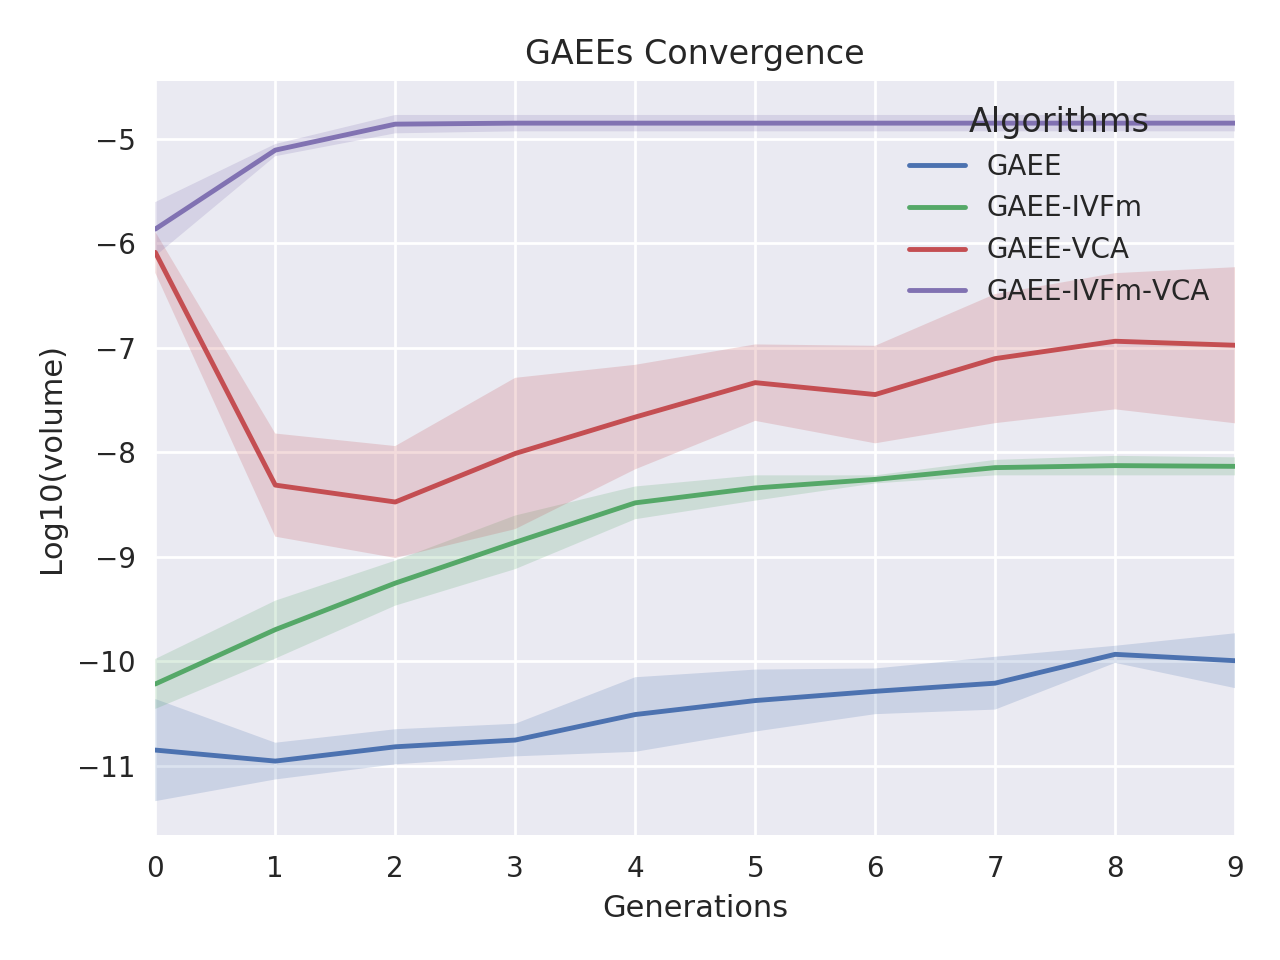
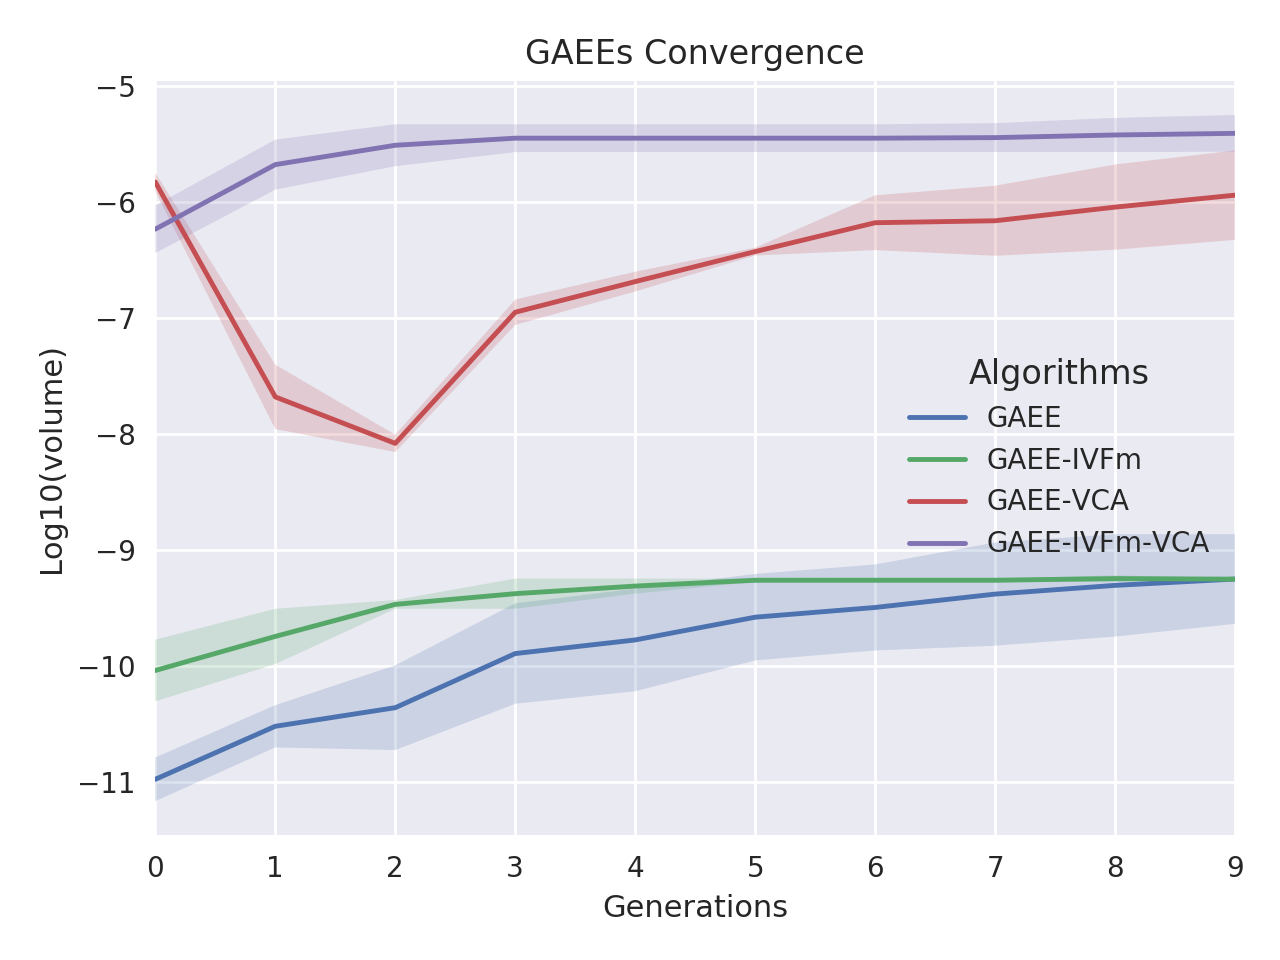
running time

diff --git a/DEMO.py b/DEMO.py
@@ -8,6 +8,7 @@ import pandas as pd
 from tabulate import tabulate
 import seaborn as sns; sns.set(color_codes=True)
 from scipy import stats
+from timeit import default_timer as timer
 
 class DEMO(object):
 
@@ -64,6 +65,8 @@ class DEMO(object):
 
 	sam_all_runs_value = None
 	sid_all_runs_value = None
+
+	time_runs = []
 
 	verbose = True
 
@@ -316,7 +319,11 @@ class DEMO(object):
 		self.sid_all_runs_value = np.zeros((mrun,self.p))
 
 		for i in range(mrun):
+			start = timer()
 			self.extract_endmember()
+			end = timer()
+			self.time_runs.append(end-start)
+			# self.extract_endmember()
 			[sam_idx, sam_value] = self.best_sam_match()
 			[sid_idx, sid_value] = self.best_sid_match()
 			
@@ -479,7 +486,7 @@ def run():
 	file.write('![alt text](Convergence.png)\n\n')
 
 	endmember_names = ['Alunite','Andradite','Buddingtonite','Dumortierite','Kaolinite_1','Kaolinite_2','Muscovite',
-				'Montmonrillonite','Nontronite','Pyrope','Sphene','Chalcedony','**Mean**','**Std**','**p-value**']
+				'Montmonrillonite','Nontronite','Pyrope','Sphene','Chalcedony','**Mean**','**Std**','**P-value**','**Time**']
 
 	ppi = DEMO([data_loc,gt_loc,num_endm,'PPI',nSkewers,initSkewers],verbose)
 	ppi.best_run(mrun)
@@ -499,8 +506,9 @@ def run():
 	tab2_sid.set_index('Endmembers',inplace=True)
 
 	for l in algo:
+		print(l.time_runs)
 		p = stats.ttest_ind(np.mean(vca.sam_all_runs_value,axis=1),np.mean(l.sam_all_runs_value,axis=1))
-		tab1_sam[l.name] = np.append(l.sam_values_min, [np.mean(l.sam_mean), np.mean(l.sam_std), p[0]])
+		tab1_sam[l.name] = np.append(l.sam_values_min, [np.mean(l.sam_mean), np.mean(l.sam_std), p[0], np.mean(l.time_runs)])
 		# s = np.sqrt((np.mean(vca.sid_var) + np.mean(l.sid_var))/2)
 		# t = (np.mean(vca.sid_mean) - np.mean(l.sid_mean)/(s*np.sqrt(2/mrun)))
 		# af = 2*mrun-2
@@ -508,7 +516,7 @@ def run():
 		# if (l.name == 'VCA'):
 		# 	p=0
 		p = stats.ttest_ind(np.mean(vca.sid_all_runs_value,axis=1),np.mean(l.sid_all_runs_value,axis=1))
-		tab2_sid[l.name] = np.append(l.sid_values_min, [np.mean(l.sid_mean), np.mean(l.sid_std), p[0]])
+		tab2_sid[l.name] = np.append(l.sid_values_min, [np.mean(l.sid_mean), np.mean(l.sid_std), p[0], np.mean(l.time_runs)])
 
 	file.write('### Comparison between the ground-truth Laboratory Reflectances and extracted endmembers using PPI, N-FINDR, VCA, GAEE, GAEE-IVFm using SAM for the Cuprite Dataset.\n\n')
 	table_fancy = tabulate(tab1_sam, tablefmt="pipe", floatfmt=".7f", headers="keys")
@@ -525,7 +533,7 @@ def run():
 		line = table_fancy.split('\n')[2:][idx]
 		table_fancy = table_fancy.replace(line, line.replace(' '+mi+' ', ' **'+mi+'** '))
 	file.write(table_fancy+'\n\n')
-	
+
 	# gaee = DEMO([data_loc,gt_loc,num_endm,'GAEE',10,10,0.7,0.3,None,False],verbose)
 	# gaee.best_run(mrun)
 	

diff --git a/README.md b/README.md
@@ -27,41 +27,43 @@ Maximum number of iterations (N-FINDR): 5
 
 ### Comparison between the ground-truth Laboratory Reflectances and extracted endmembers using PPI, N-FINDR, VCA, GAEE, GAEE-IVFm using SAM for the Cuprite Dataset.
 
-| Endmembers       |        PPI |     NFINDR |       VCA |       GAEE |   GAEE-IVFm |   GAEE-VCA |   GAEE-IVFm-VCA |
-|:-----------------|-----------:|-----------:|----------:|-----------:|------------:|-----------:|----------------:|
-| Alunite          |  0.3743766 |  0.1033697 | **0.1016300** |  0.3414486 |   0.1024535 |  0.1033697 |       0.1033697 |
-| Andradite        |  0.0757956 |  0.0724709 | 0.0908270 |  0.0678708 |   0.0676371 |  0.0823914 |       **0.0592546** |
-| Buddingtonite    |  0.2080900 |  0.0761604 | 0.0785924 |  0.1264569 |   0.1125306 |  **0.0761598** |       **0.0761598** |
-| Dumortierite     |  0.1907338 |  **0.0720035** | 0.0951321 |  0.0777131 |   0.1512911 |  0.0720841 |       0.1052671 |
-| Kaolinite_1      |  0.0794624 |  0.0870056 | 0.0862021 |  0.0922255 |   **0.0786868** |  0.0825444 |       0.0870058 |
-| Kaolinite_2      |  0.0819634 |  0.0889228 | 0.0755032 |  **0.0587641** |   0.0627594 |  0.0763893 |       0.0953920 |
-| Muscovite        |  0.2506333 |  0.1091060 | 0.1084029 |  0.1605602 |   0.2121529 |  0.1359533 |       **0.0960974** |
-| Montmonrillonite |  0.1338156 |  0.0648080 | 0.0642589 |  0.0605655 |   **0.0590018** |  0.0657460 |       0.0657460 |
-| Nontronite       |  0.1032919 |  0.0758386 | 0.1121975 |  0.0797934 |   **0.0735572** |  0.0762960 |       0.1150333 |
-| Pyrope           |  0.0578827 |  0.1221578 | 0.1471749 |  **0.0461283** |   0.0644277 |  0.1941656 |       0.0964739 |
-| Sphene           |  0.0673108 |  0.2856719 | 0.0834347 |  0.0741759 |   0.1528000 |  0.0770255 |       **0.0613746** |
-| Chalcedony       |  0.0871248 |  0.0871248 | **0.0760768** |  0.2199309 |   0.1653366 |  0.0934307 |       0.0919706 |
-| **Mean**         |  0.1425401 |  0.1057002 | 0.1005772 |  0.1210254 |   0.1096163 |  0.1054497 |       **0.0939173** |
-| **Std**          |  **0.0000000** |  0.0053322 | 0.0158775 |  0.0112868 |   0.0228356 |  0.0209175 |       0.0118040 |
-| **p-value**      | -5.7552679 | -0.6780580 | 0.0000000 | -2.4744633 |  -1.2267441 | **-0.3734411** |       0.6979624 |
+| Endmembers       |         PPI |     NFINDR |       VCA |       GAEE |   GAEE-IVFm |   GAEE-VCA |   GAEE-IVFm-VCA |
+|:-----------------|------------:|-----------:|----------:|-----------:|------------:|-----------:|----------------:|
+| Alunite          |   0.3743766 |  0.1033697 | **0.0913600** |  0.3066626 |   0.2826150 |  0.0926313 |       0.0926313 |
+| Andradite        |   0.0757956 |  **0.0724709** | 0.0868627 |  0.0802739 |   0.0862870 |  0.1644978 |       0.0752234 |
+| Buddingtonite    |   0.2080900 |  **0.0761604** | 0.0823985 |  0.1181232 |   0.0874055 |  0.1193060 |       0.1602123 |
+| Dumortierite     |   0.1907338 |  0.0720035 | 0.0708485 |  0.0718638 |   0.0899484 |  **0.0706448** |       **0.0706448** |
+| Kaolinite_1      |   **0.0794624** |  0.0870056 | 0.0862021 |  0.0862734 |   0.0873382 |  0.0869072 |       0.0870058 |
+| Kaolinite_2      |   0.0819634 |  0.0889228 | 0.0758247 |  **0.0638283** |   0.0732192 |  0.0730934 |       0.0861069 |
+| Muscovite        |   0.2506333 |  0.1091060 | 0.1385263 |  0.1982286 |   0.1873132 |  0.1578801 |       **0.1091057** |
+| Montmonrillonite |   0.1338156 |  0.0648080 | 0.0645269 |  0.0675177 |   **0.0617503** |  0.0646271 |       0.0646271 |
+| Nontronite       |   0.1032919 |  0.0758386 | 0.0781925 |  0.0761649 |   **0.0729433** |  0.0797374 |       0.0779097 |
+| Pyrope           |   0.0578827 |  0.1221578 | 0.2366504 |  0.0735907 |   **0.0509429** |  0.2377895 |       0.1217895 |
+| Sphene           |   0.0673108 |  0.2856719 | **0.0633402** |  0.0675483 |   0.0959046 |  0.0770255 |       0.0640268 |
+| Chalcedony       |   0.0871248 |  0.0871248 | 0.0938692 |  0.1504308 |   0.1512674 |  0.0919706 |       **0.0752052** |
+| **Mean**         |   0.1425401 |  0.1057002 | 0.0987978 |  0.1151371 |   0.1135220 |  0.1141871 |       **0.0924109** |
+| **Std**          |   **0.0000000** |  0.0053322 | 0.0186826 |  0.0066076 |   0.0067262 |  0.0182891 |       0.0132894 |
+| **P-value**      | -30.9293928 | **-2.8365552** | 0.0000000 | -7.2328626 |  -4.5080643 | -3.2551426 |       2.5756814 |
+| **Time**         |   **7.9611670** |  **7.9611670** | **7.9611670** |  **7.9611670** |   **7.9611670** |  **7.9611670** |       **7.9611670** |
 
 ### Comparison between the ground-truth Laboratory Reflectances and extracted endmembers using PPI, N-FINDR, VCA, GAEE, GAEE-IVFm using SID for the Cuprite Dataset.
 
 | Endmembers       |        PPI |     NFINDR |       VCA |      GAEE |   GAEE-IVFm |   GAEE-VCA |   GAEE-IVFm-VCA |
 |:-----------------|-----------:|-----------:|----------:|----------:|------------:|-----------:|----------------:|
-| Alunite          |  **0.0000000** |  **0.0000000** | **0.0000000** | **0.0000000** |   **0.0000000** |  **0.0000000** |       **0.0000000** |
-| Andradite        |  **0.0000000** |  0.0061679 | 0.0080497 | **0.0000000** |   **0.0000000** |  0.0122536 |       0.0085121 |
-| Buddingtonite    |  0.0476680 |  0.0071905 | 0.0076571 | **0.0000000** |   0.0270487 |  0.0071905 |       0.0071905 |
-| Dumortierite     |  0.0562235 |  0.0068965 | 0.0178236 | **0.0000000** |   0.0092193 |  0.0075447 |       0.0119773 |
-| Kaolinite_1      |  0.0113668 |  0.0130991 | 0.0129241 | 0.0217162 |   0.0098058 |  **0.0088126** |       0.0130991 |
-| Kaolinite_2      |  0.0113963 |  0.0109124 | 0.0076261 | **0.0044164** |   0.0056577 |  0.0082711 |       0.0063615 |
-| Muscovite        |  0.0969470 |  0.0300733 | **0.0148187** | 0.0280079 |   0.0524025 |  0.0300733 |       0.0300733 |
-| Montmonrillonite |  0.0229949 |  0.0048775 | 0.0047469 | **0.0045035** |   0.0065401 |  0.0053146 |       0.0053146 |
-| Nontronite       |  0.0126400 |  0.0076655 | 0.0081608 | 0.0080293 |   **0.0073461** |  0.0077239 |       0.0085682 |
-| Pyrope           |  **0.0071348** |  0.0530846 | 0.1173103 | 0.0075062 |   0.0148324 |  0.0288032 |       0.0130515 |
-| Sphene           |  **0.0075691** |  0.0912113 | 0.0095759 | 0.0295970 |   0.0528866 |  0.0528866 |       0.0912113 |
-| Chalcedony       |  0.0088268 |  0.0088268 | **0.0069070** | 0.0231664 |   0.0090096 |  0.0100621 |       0.0100621 |
-| **Mean**         |  0.0235639 |  0.0221020 | 0.0187293 | **0.0143122** |   0.0184279 |  0.0171611 |       0.0198158 |
-| **Std**          |  **0.0000000** |  0.0024464 | 0.0107082 | 0.0057590 |   0.0071316 |  0.0041750 |       0.0042833 |
-| **p-value**      | -6.3392612 | -1.5085898 | 0.0000000 | 1.1591285 |   0.1295330 |  0.6601739 |      **-0.3876038** |
+| Alunite          |  **0.0000000** |  **0.0000000** | 0.0104872 | **0.0000000** |   **0.0000000** |  **0.0000000** |       **0.0000000** |
+| Andradite        |  **0.0000000** |  0.0061679 | 0.0088420 | **0.0000000** |   **0.0000000** |  0.0194020 |       0.0074052 |
+| Buddingtonite    |  0.0476680 |  0.0071905 | 0.0080367 | 0.0184321 |   **0.0000000** |  0.0267324 |       0.0071905 |
+| Dumortierite     |  0.0562235 |  **0.0068965** | 0.0071826 | 0.0069057 |   0.0100143 |  0.0071101 |       0.0197490 |
+| Kaolinite_1      |  0.0113668 |  0.0130991 | 0.0129241 | 0.0129120 |   0.0133009 |  **0.0108978** |       0.0130991 |
+| Kaolinite_2      |  0.0113963 |  0.0109124 | 0.0084861 | **0.0046526** |   0.0073812 |  0.0059838 |       0.0109124 |
+| Muscovite        |  0.0969470 |  0.0300733 | **0.0272276** | 0.0700768 |   0.0338296 |  0.0316990 |       0.0316990 |
+| Montmonrillonite |  0.0229949 |  0.0048775 | 0.0048934 | 0.0050236 |   **0.0045624** |  0.0047043 |       0.0047043 |
+| Nontronite       |  0.0126400 |  0.0076655 | 0.0109842 | 0.0074239 |   **0.0071590** |  0.0081465 |       0.0081465 |
+| Pyrope           |  **0.0071348** |  0.0530846 | 0.0624350 | 0.0099261 |   0.0185373 |  0.0419685 |       0.0083235 |
+| Sphene           |  **0.0075691** |  0.0912113 | 0.0079718 | 0.0082675 |   0.0363600 |  0.0912113 |       0.0241628 |
+| Chalcedony       |  0.0088268 |  0.0088268 | 0.0102253 | 0.0316220 |   0.0198481 |  0.0130018 |       **0.0066897** |
+| **Mean**         |  0.0235639 |  0.0221020 | 0.0211659 | 0.0206637 |   0.0137623 |  0.0229125 |       **0.0126264** |
+| **Std**          |  **0.0000000** |  0.0024464 | 0.0082362 | 0.0075245 |   0.0035074 |  0.0036685 |       0.0024566 |
+| **P-value**      | -0.3873310 | **-0.1431778** | 0.0000000 | 0.0579667 |   1.1746872 | -0.2771674 |       1.3682946 |
+| **Time**         |  **7.9611670** |  **7.9611670** | **7.9611670** | **7.9611670** |   **7.9611670** |  **7.9611670** |       **7.9611670** |
 
